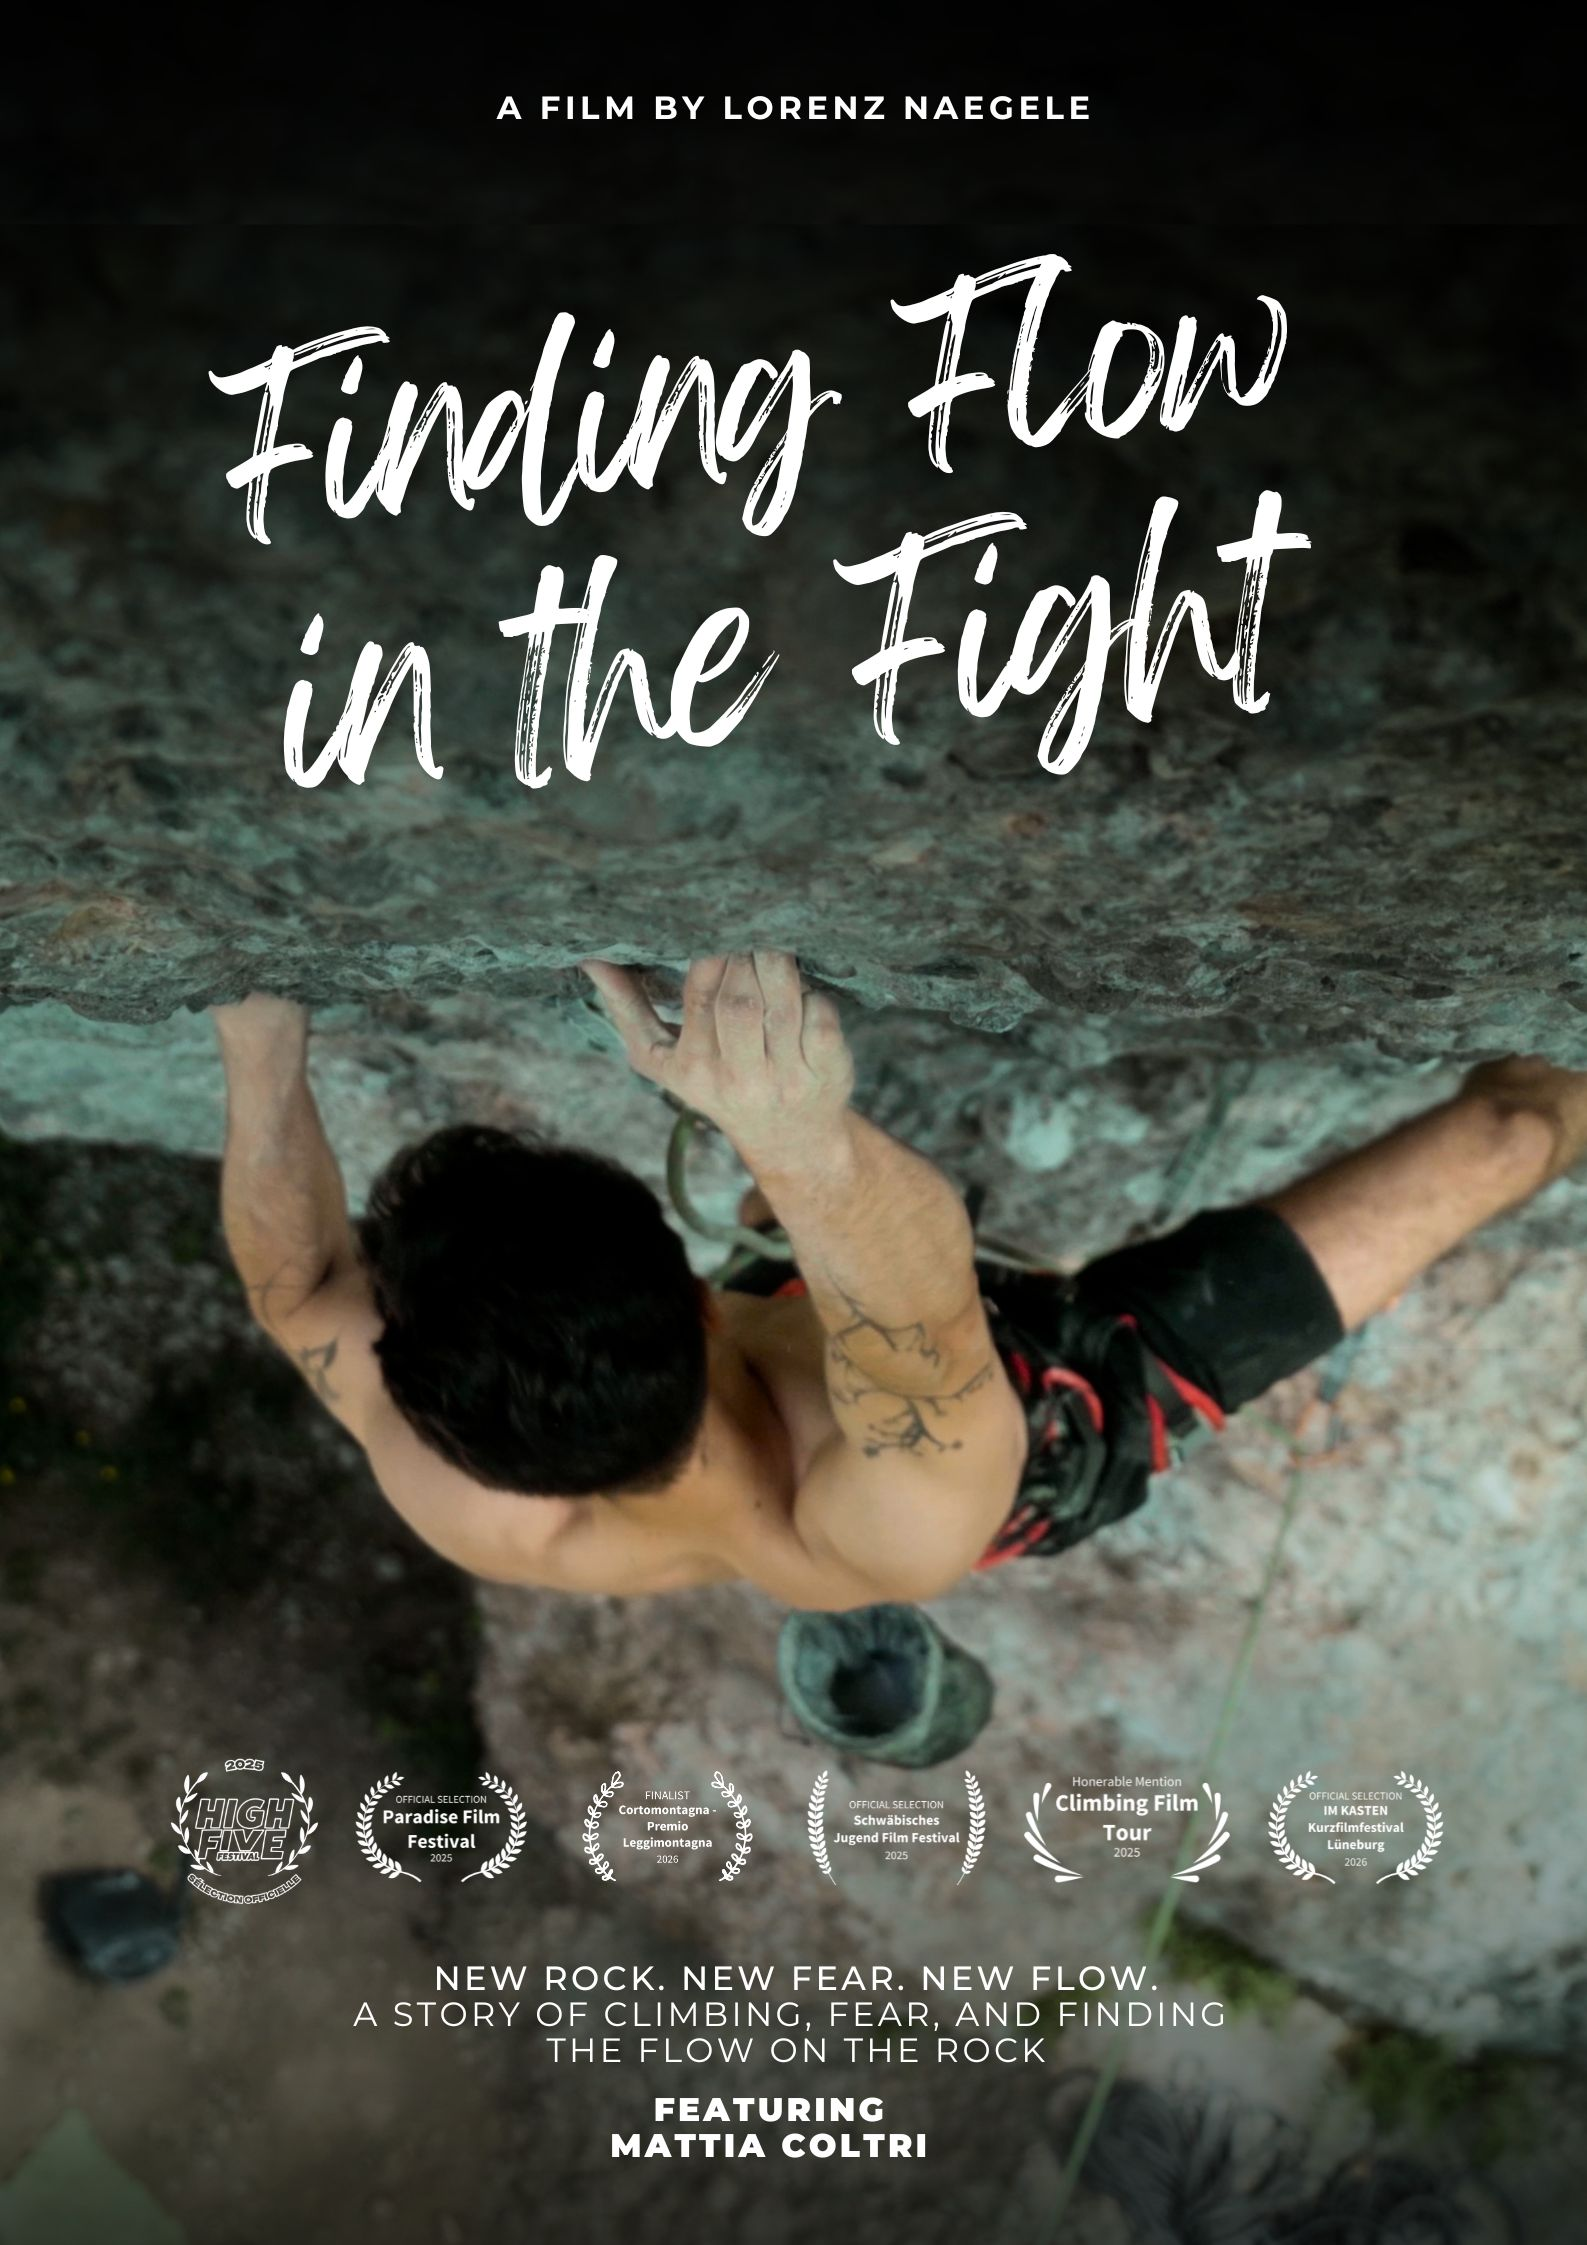
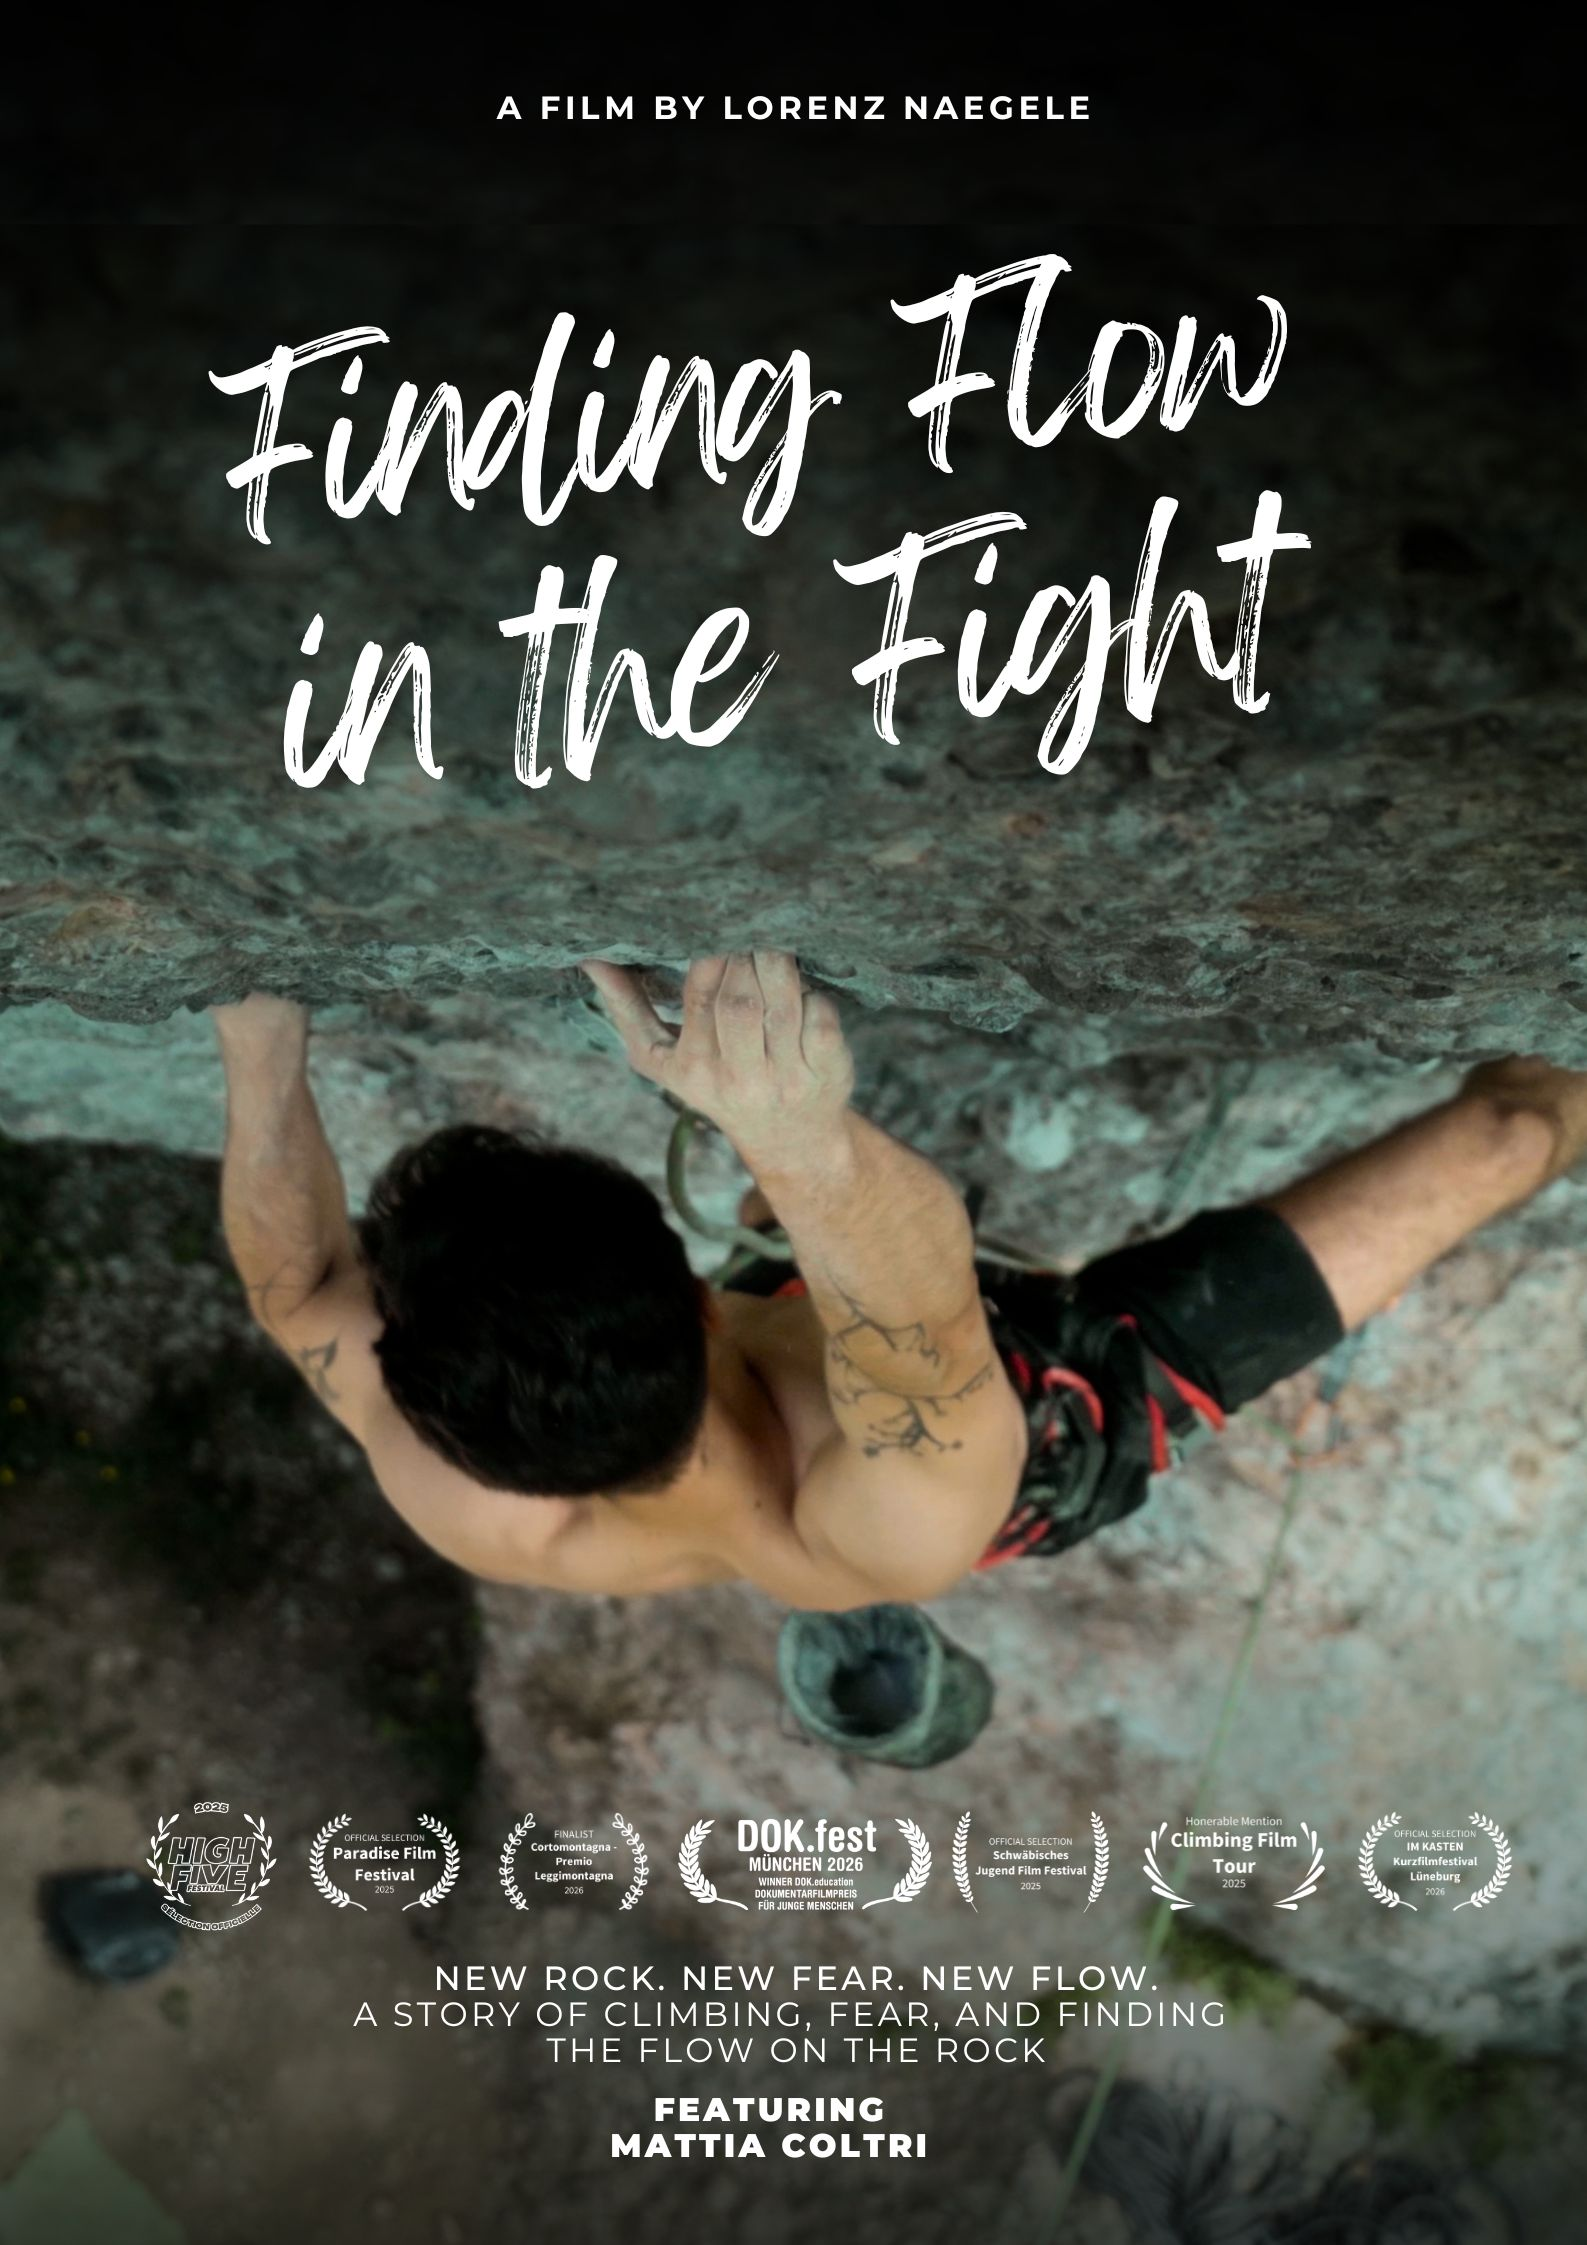
update poster

Changed region(s): [[0.0926, 0.7795, 0.9572, 0.8731]]

diff --git a/app/lib/constants/videos.ts b/app/lib/constants/videos.ts
@@ -24,7 +24,7 @@ export const videos: VideoThumbnail[] = [
           "Beyond the craft, the documentary is a call to action. It’s about understanding why protecting our oceans matters, and why the choices we make, both as consumers and as global citizens, can have a lasting impact. Through Martin’s story, I hope viewers are inspired to consider their own relationship with nature and the ways they can contribute to a healthier planet. Small actions, when done with care and awareness, can make a difference, and sometimes the most meaningful solutions come from unexpected places.",
       },
     ],
-    thumbnail: { path: "/fotos/3.webp" },
+    thumbnail: { path: "/fotos/shape_the_future_thumbnail.jpg" },
     posterPath: "/fotos/shape_the_future_poster.jpg",
     duration: "15 min",
     description:
@@ -77,7 +77,7 @@ export const videos: VideoThumbnail[] = [
           "Across both days, the project became more than just filming a climb it turned into a valuable learning experience for me as well. Handling the camera gear while hanging on the rope taught me a lot about working in challenging conditions, and gave me confidence for future shoots. The whole process, from figuring out technical setups to working alongside Manu and witnessing Mattia’s determination, made for a memorable journey. Being out on the rock, surrounded by nature, added to the sense of adventure that defined the shoot.",
       },
     ],
-    thumbnail: { path: "/fotos/1.webp" },
+    thumbnail: { path: "/fotos/finding_flow_in_the_fight_thumbnail.jpg" },
     posterPath: "/fotos/finding_flow_in_the_fight_poster.jpg",
     duration: "15 min",
     description:
@@ -88,6 +88,10 @@ export const videos: VideoThumbnail[] = [
     dateTaken: "June 2025",
     type: "video",
     festivals: [
+      {
+        name: "DOK.fest München — DOK.education Dokumentarfilmpreis",
+        award: "Winner",
+      },
       { name: "HighFive Film Festival", award: "Official Selection" },
       { name: "Paradise Film Festival", award: "Official Selection" },
       { name: "Independent International Film Festival", award: "Nominee" },

diff --git a/app/components/AwardHighlight.tsx b/app/components/AwardHighlight.tsx
@@ -1,0 +1,51 @@
+"use client";
+
+import Image from "next/image";
+import Link from "next/link";
+import { motion } from "framer-motion";
+import { uiFont } from "../lib/font";
+
+export default function AwardHighlight() {
+  return (
+    <section
+      aria-label="Recent award"
+      className="px-6 md:px-10 pt-10 md:pt-12"
+    >
+      <div className="max-w-6xl mx-auto">
+        <motion.div
+          initial={{ opacity: 0, y: 12 }}
+          whileInView={{ opacity: 1, y: 0 }}
+          viewport={{ once: true, margin: "-80px" }}
+          transition={{ duration: 0.6, ease: [0.25, 0.4, 0.25, 1] }}
+        >
+          <Link
+            href="/video/sport_climbing_mattia"
+            className="group flex items-center gap-4 md:gap-6 justify-center text-center"
+          >
+            <Image
+              src="/fotos/dokfest_muenchen_laurel.png"
+              alt="DOK.fest München 2026 — Winner DOK.education Dokumentarfilmpreis"
+              width={80}
+              height={80}
+              className="h-14 md:h-16 w-auto opacity-80 group-hover:opacity-100 transition-opacity duration-300"
+            />
+            <div
+              className={`${uiFont.className} text-left`}
+            >
+              <p className="text-cinema-gold text-[10px] md:text-xs uppercase tracking-[0.25em]">
+                DOK.fest München 2026
+              </p>
+              <p className="text-cinema-silver text-sm md:text-base mt-1">
+                Winner · DOK.education Dokumentarfilmpreis
+                <span className="text-cinema-smoke/60">
+                  {" "}
+                  — Finding Flow in the Fight
+                </span>
+              </p>
+            </div>
+          </Link>
+        </motion.div>
+      </div>
+    </section>
+  );
+}

diff --git a/app/page.tsx b/app/page.tsx
@@ -6,6 +6,7 @@ import ContactCTA from "./components/ContactCTA";
 import AnimatedSection from "./components/AnimatedSection";
 import TextLink from "./components/TextLink";
 import PressStrip from "./components/PressStrip";
+import AwardHighlight from "./components/AwardHighlight";
 import Testimonial from "./components/Testimonial";
 import ProcessSection from "./components/ProcessSection";
 import { videos } from "./lib/constants/videos";
@@ -39,6 +40,9 @@ export default function Home() {
 
       {/* Press / festivals strip */}
       <PressStrip />
+
+      {/* Subtle highlight: DOK.fest München win */}
+      <AwardHighlight />
 
       {/* Featured Films */}
       <section className="py-24 md:py-32 px-6 md:px-10">

diff --git a/app/lib/interfaces.ts b/app/lib/interfaces.ts
@@ -24,7 +24,12 @@ export interface VideoThumbnailImage {
   description?: string;
 }
 
-export type FestivalAward = "Official Selection" | "Honorable Mention" | "Finalist" | "Nominee";
+export type FestivalAward =
+  | "Official Selection"
+  | "Honorable Mention"
+  | "Finalist"
+  | "Nominee"
+  | "Winner";
 
 export interface Festival {
   name: string;

diff --git a/app/video/[slug]/FilmDetailContent.tsx b/app/video/[slug]/FilmDetailContent.tsx
@@ -16,6 +16,8 @@ interface FilmDetailContentProps {
 }
 
 function awardStyle(award: FestivalAward): string {
+  if (award === "Winner")
+    return "border-cinema-gold text-cinema-gold bg-cinema-gold/10";
   if (award === "Honorable Mention")
     return "border-cinema-gold text-cinema-gold/80";
   if (award === "Finalist")
